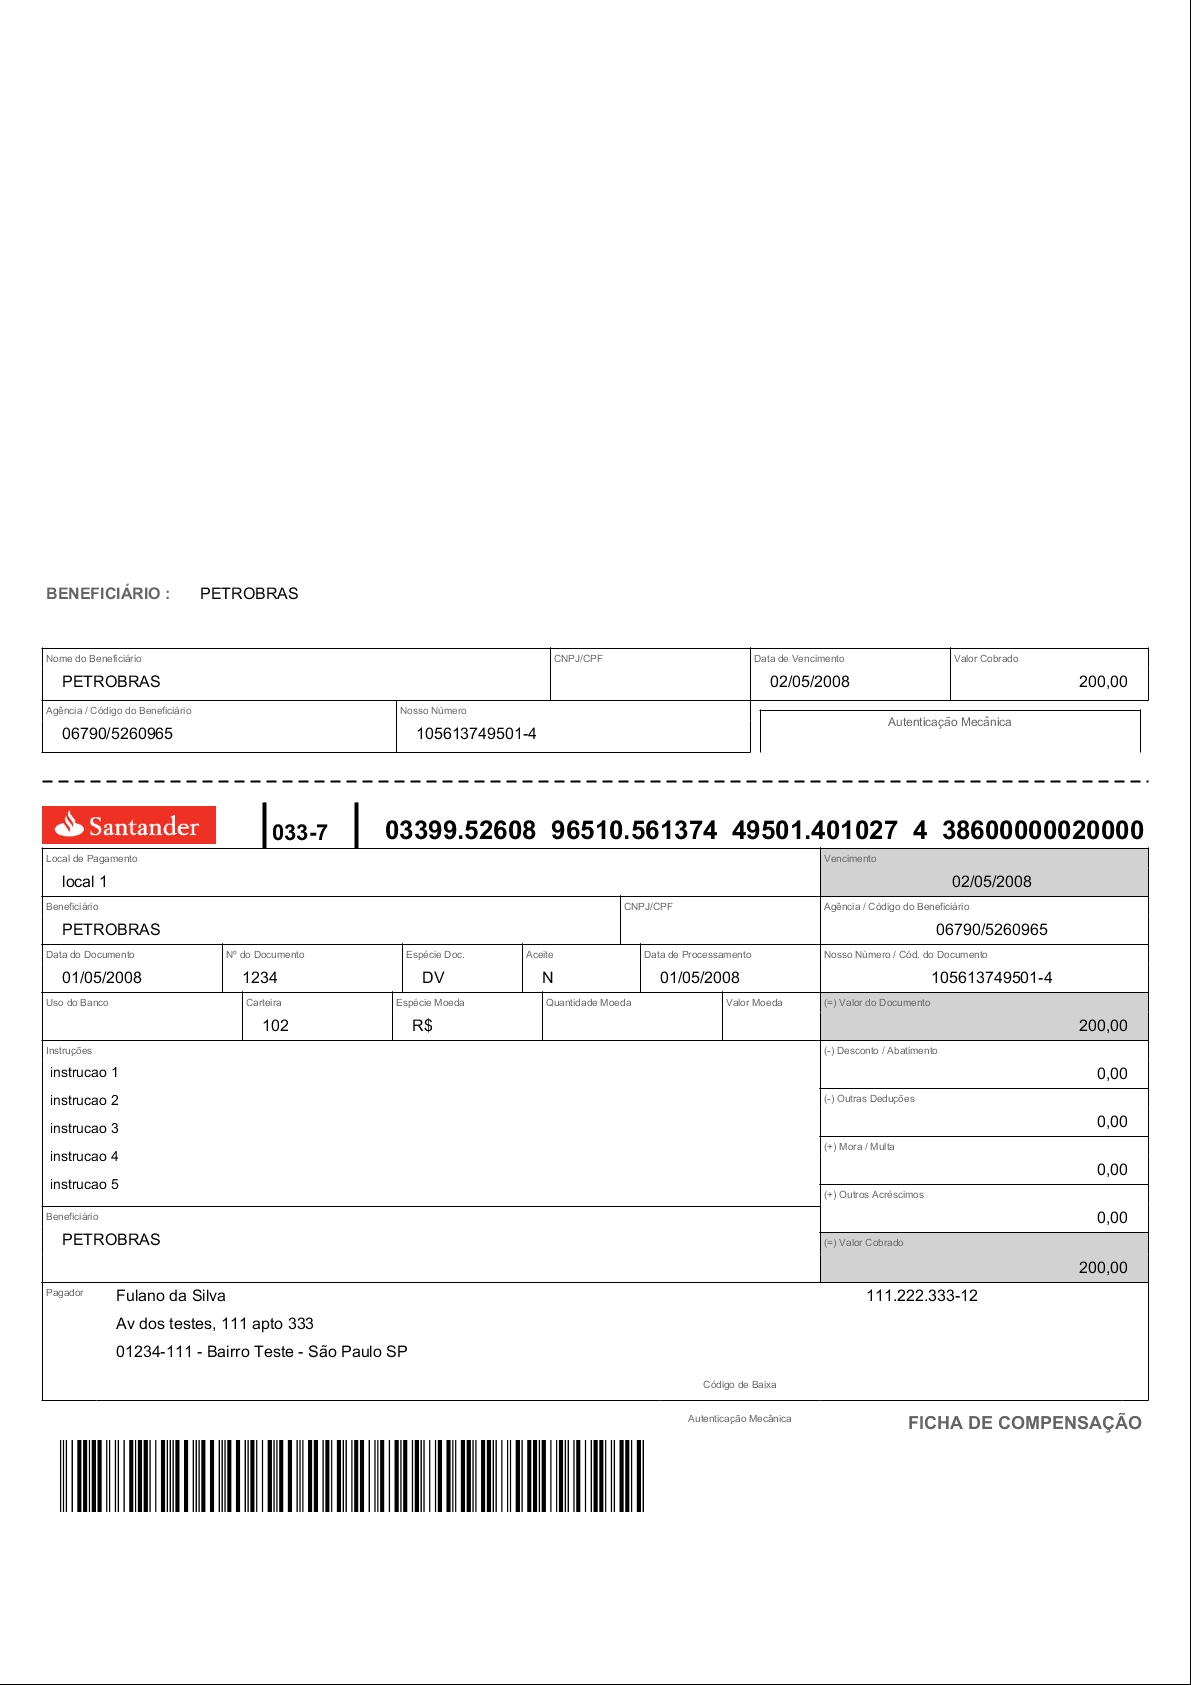
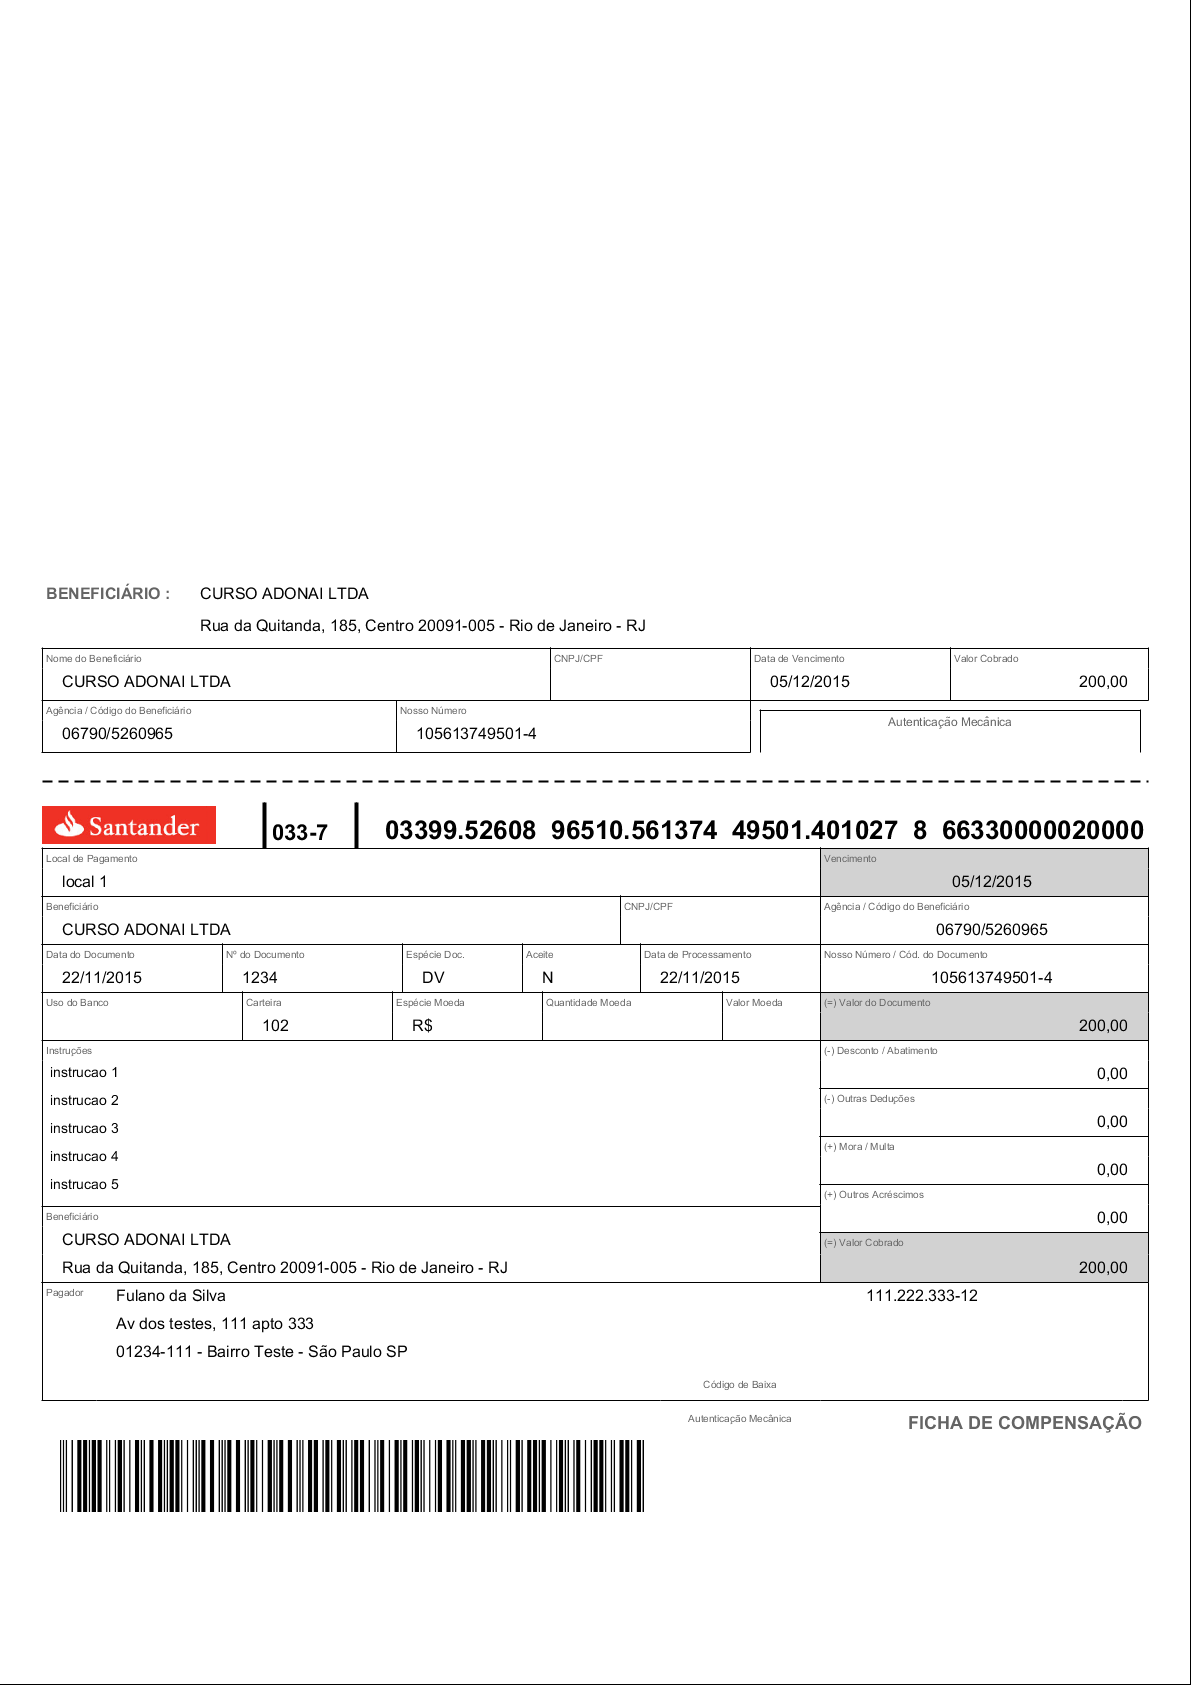
Removido Bopepo por testes insatisfatórios com Santander. Incluído Stella da Caelum e testes satisfatórios com BB e Santander.

diff --git a/src/main/java/br/com/eugeniosolucoes/util/StellaExemploSantander.java b/src/main/java/br/com/eugeniosolucoes/util/StellaExemploSantander.java
@@ -11,9 +11,10 @@ import br.com.caelum.stella.boleto.Boleto;
 import br.com.caelum.stella.boleto.Datas;
 import br.com.caelum.stella.boleto.Endereco;
 import br.com.caelum.stella.boleto.Pagador;
-import br.com.caelum.stella.boleto.bancos.BancoDoBrasil;
 import br.com.caelum.stella.boleto.bancos.Santander;
 import br.com.caelum.stella.boleto.transformer.GeradorDeBoleto;
+import java.io.File;
+import java.io.IOException;
 
 /**
  *
@@ -21,24 +22,25 @@ import br.com.caelum.stella.boleto.transformer.GeradorDeBoleto;
  */
 public class StellaExemploSantander {
 
-    public static void main(String[] args) {
+    public static void main(String[] args) throws IOException {
         Datas datas = Datas.novasDatas()
-                .comDocumento(1, 5, 2008)
-                .comProcessamento(1, 5, 2008)
-                .comVencimento(2, 5, 2008);
+                .comDocumento(22, 11, 2015)
+                .comProcessamento(22, 11, 2015)
+                .comVencimento(5, 12, 2015);
 
         Endereco enderecoBeneficiario = Endereco.novoEndereco()
-                .comLogradouro("Av das Empresas, 555")
-                .comBairro("Bairro Grande")
-                .comCep("01234-555")
-                .comCidade("São Paulo")
-                .comUf("SP");
+                .comLogradouro("Rua da Quitanda, 185")
+                .comBairro("Centro")
+                .comCep("20091-005")
+                .comCidade("Rio de Janeiro")
+                .comUf("RJ");
 
         //Quem emite o boleto
-        Beneficiario beneficiario = Beneficiario.novoBeneficiario().comNomeBeneficiario("PETROBRAS")
-            .comAgencia("6790").comDigitoAgencia("0").comCarteira("102")
-            .comNumeroConvenio("5260965").comNossoNumero("105613749501")
-            .comDigitoNossoNumero("4");
+        Beneficiario beneficiario = Beneficiario.novoBeneficiario().comNomeBeneficiario("CURSO ADONAI LTDA")
+                .comEndereco(enderecoBeneficiario)
+                .comAgencia("6790").comDigitoAgencia("0").comCarteira("102")
+                .comNumeroConvenio("5260965").comNossoNumero("105613749501")
+                .comDigitoNossoNumero("4");
 
         Endereco enderecoPagador = Endereco.novoEndereco()
                 .comLogradouro("Av dos testes, 111 apto 333")
